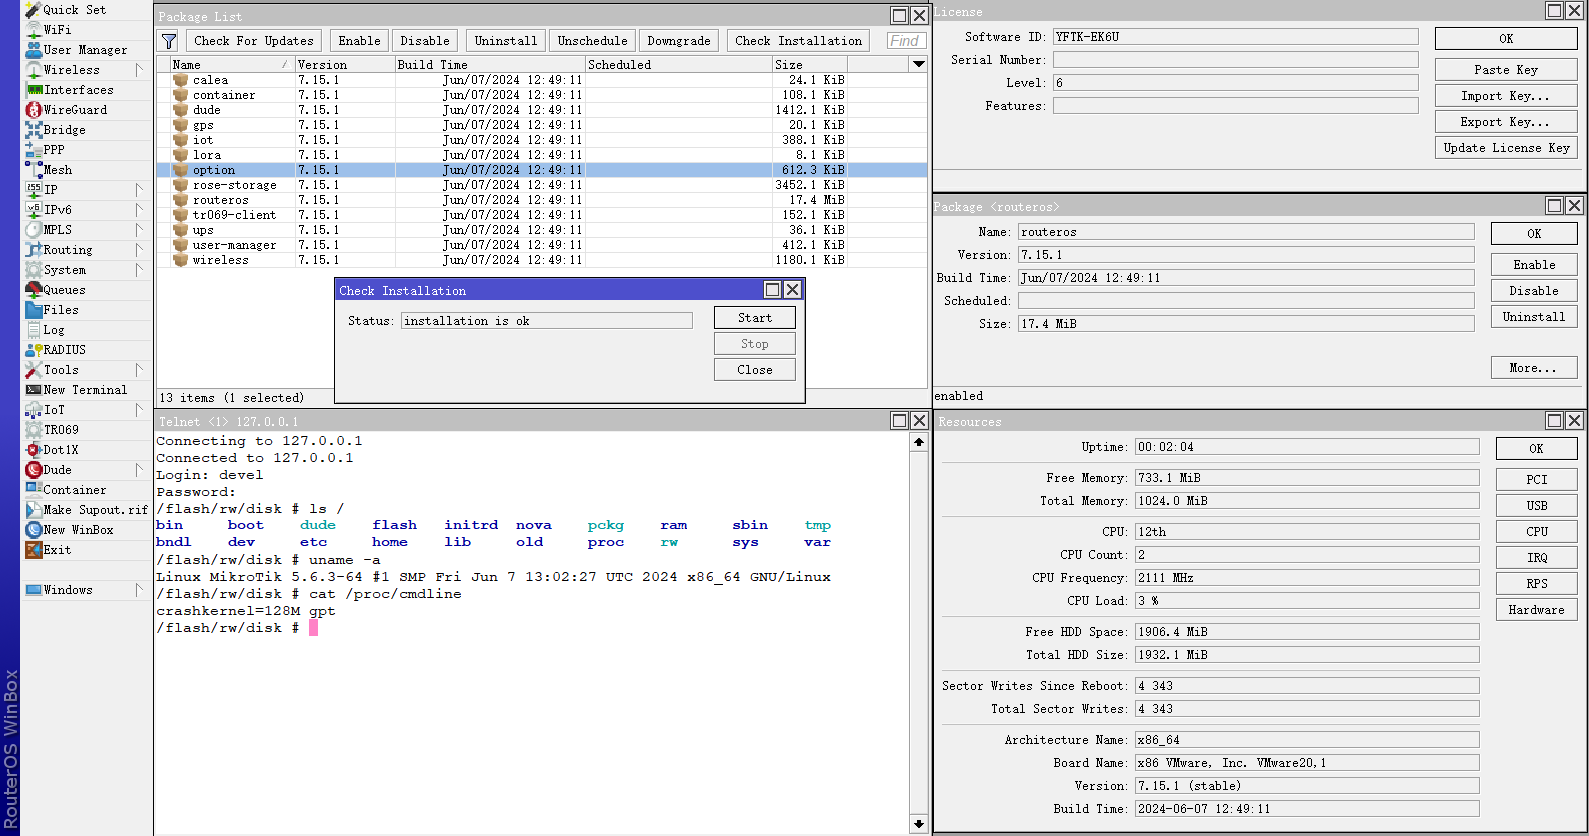
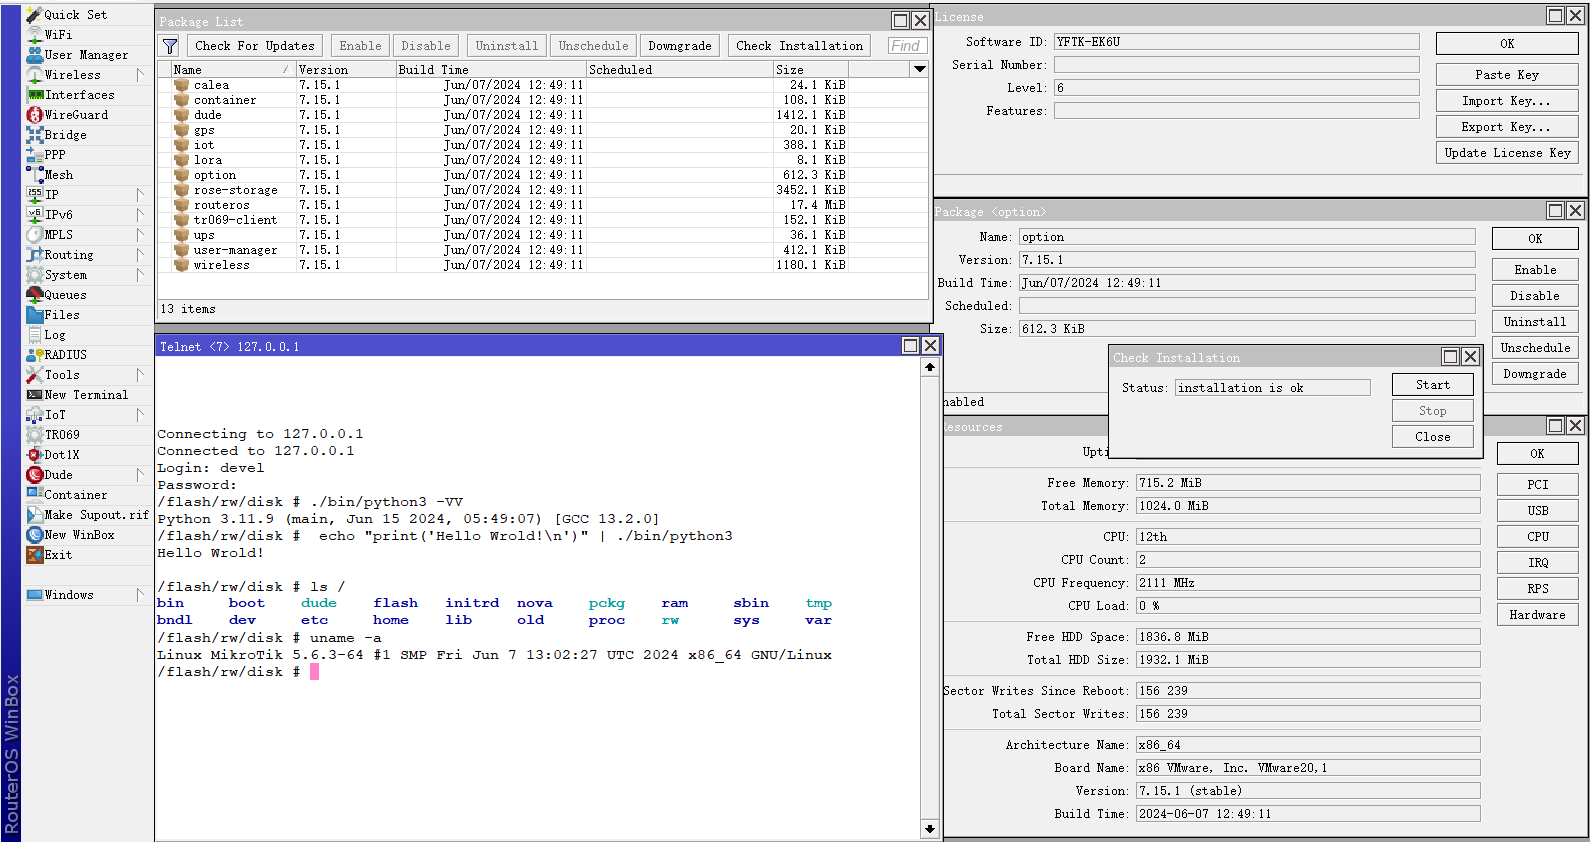
modified:   .github/workflows/mikrotik_patch.yml

diff --git a/npk.py b/npk.py
@@ -258,9 +258,11 @@ if __name__=='__main__':
     verify_parser = subparsers.add_parser('verify',help='Verify npk file')
     verify_parser.add_argument('input',type=str, help='Input file')
     create_option_parser = subparsers.add_parser('create',help='Create option.npk file')
-    create_option_parser.add_argument('npk_file',type=str,help='From npk file')
-    create_option_parser.add_argument('squashfs',type=str,help='option squashfs file')
+    create_option_parser.add_argument('input',type=str,help='From npk file')
     create_option_parser.add_argument('output',type=str,help='Output file')
+    create_option_parser.add_argument('name',type=str,help='NPK name')
+    create_option_parser.add_argument('squashfs',type=str,help='NPK squashfs file')
+    create_option_parser.add_argument('-desc','--description',type=str,help='NPK description')
 
     args = parser.parse_args()
     if args.command =='sign':
@@ -286,8 +288,8 @@ if __name__=='__main__':
         kcdsa_private_key = bytes.fromhex(os.environ['CUSTOM_LICENSE_PRIVATE_KEY'])
         eddsa_private_key = bytes.fromhex(os.environ['CUSTOM_NPK_SIGN_PRIVATE_KEY'])
         option_npk = NovaPackage.load(args.npk_file)
-        option_npk[NpkPartID.NAME_INFO].data.name = 'option'
-        option_npk[NpkPartID.DESCRIPTION].data = b'option package has busybox ash'
+        option_npk[NpkPartID.NAME_INFO].data.name = args.name
+        option_npk[NpkPartID.DESCRIPTION].data = args.description or args.name.encode()
         option_npk[NpkPartID.NULL_BLOCK].data = b''
         option_npk[NpkPartID.SQUASHFS].data = open(args.squashfs,'rb').read() 
         option_npk.sign(kcdsa_private_key,eddsa_private_key)
